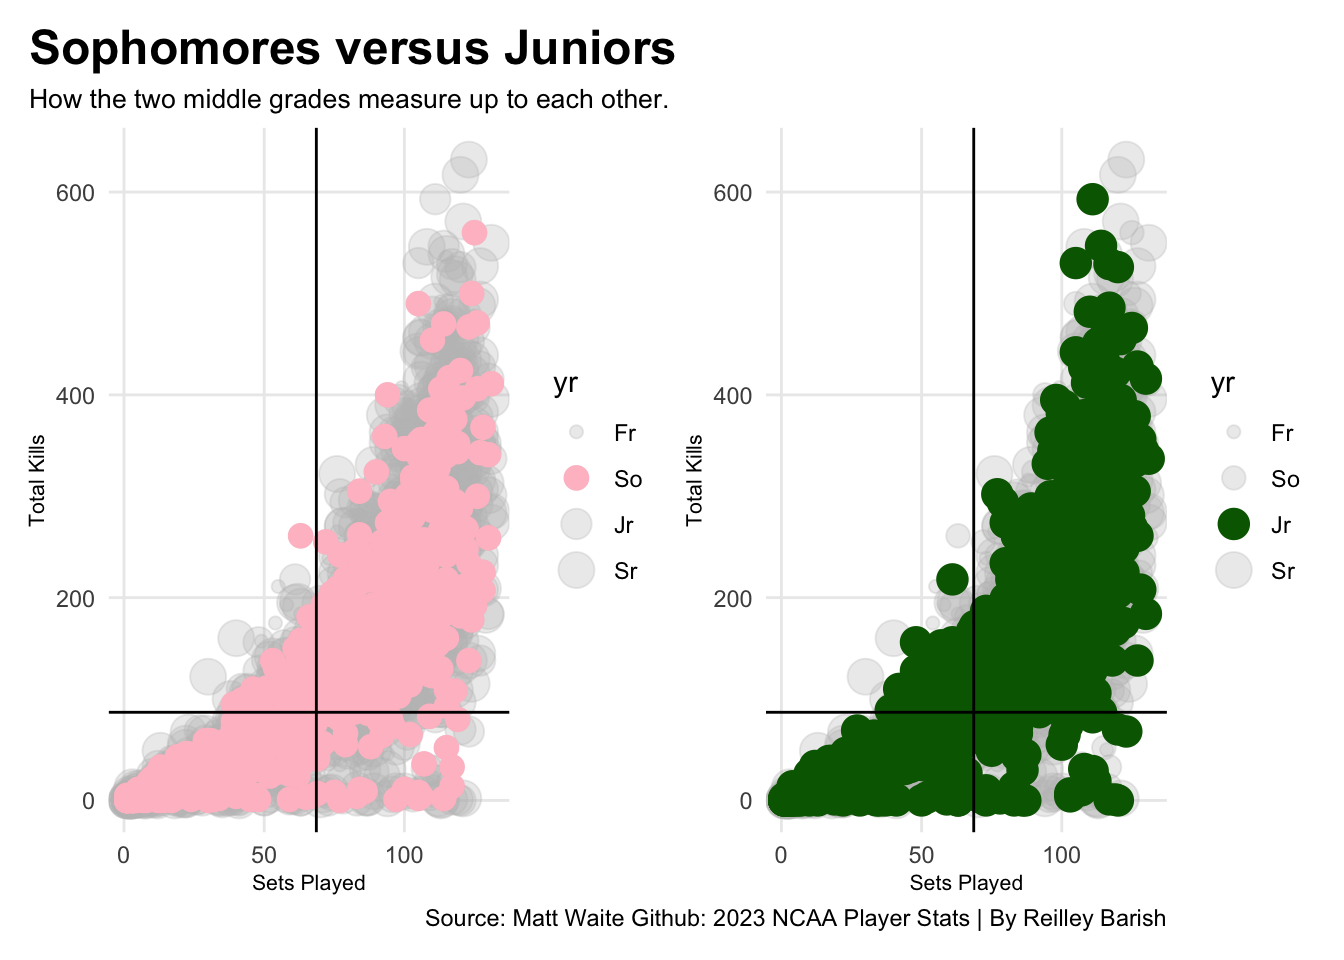
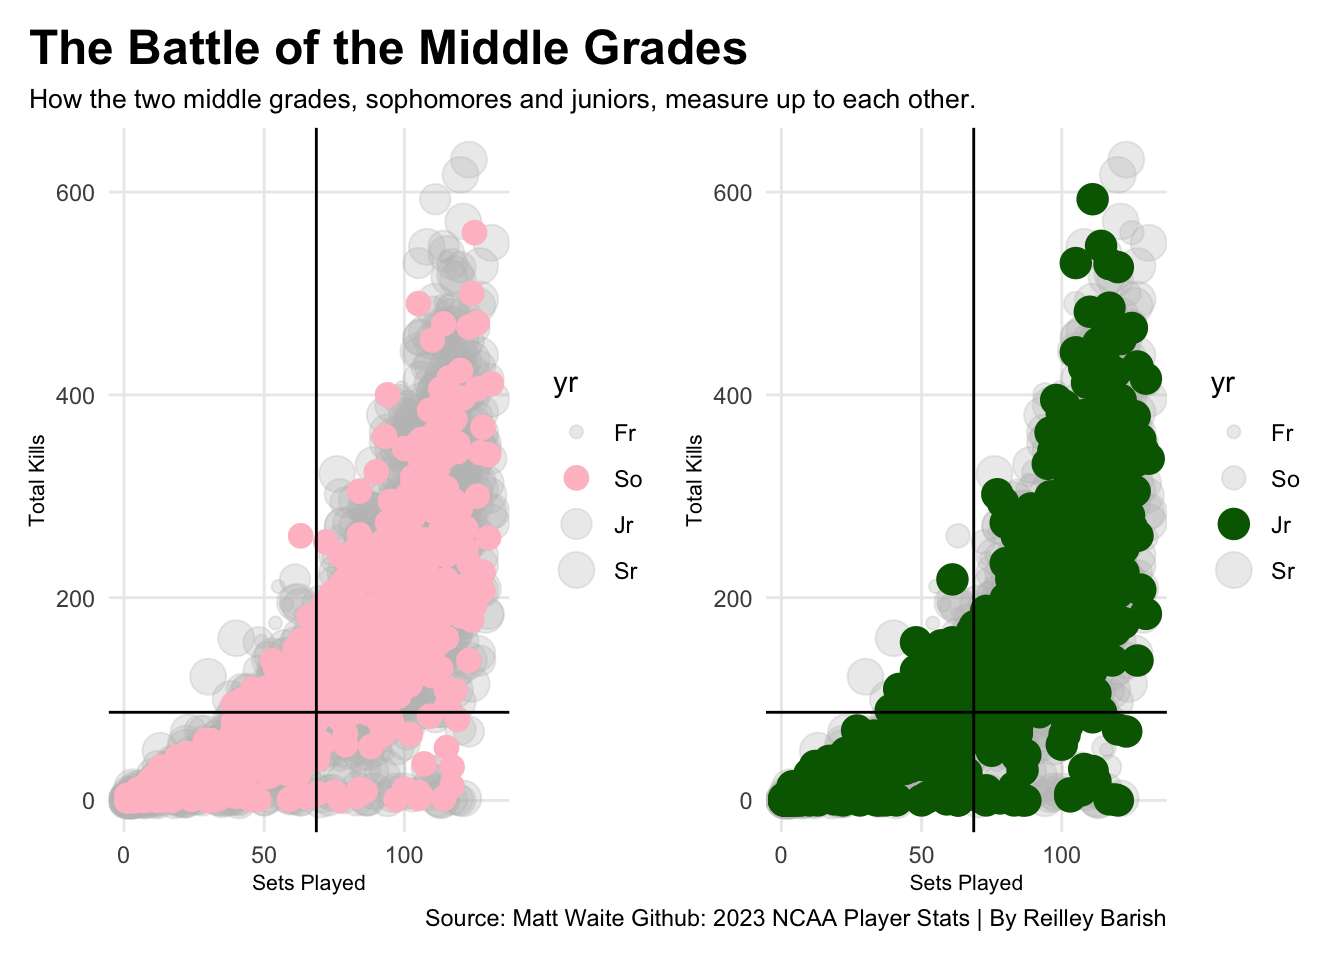
text commit 1

Changed region(s): [[0.0, 0.0312, 0.7188, 0.125]]

diff --git a/posts/volleyball-players-2023-kills/index.html b/posts/volleyball-players-2023-kills/index.html
@@ -190,6 +190,8 @@ pre > code.sourceCode > span > a:first-child::before { text-decoration: underlin
 
 
 
+<p>Incoming freshman have been getting a lot of fame and play time in NCAA volleyball recently. From Harper Murray to Olivia Babcock to Chloe Chicoine; these talented players have made a name for themselves but are they better than the seniors that have had four years to get to this level of playing? Players like Kendall Kipp, Devyn Robinson, Asjia O’Neal and Jillian Gillen. These amazing women have helped paved the way for volleyball and how to play the game at an elite level.</p>
+<p>The data is Sports Data Files of the 2023 NCAA volleyball season courtesy of Professor Matt Waite. https://mattwaite.github.io/sportsdatafiles/ncaa_womens_volleyball_playerstats_2023</p>
 <div class="cell">
 <details class="code-fold">
 <summary>Code</summary>
@@ -265,7 +267,6 @@ pre > code.sourceCode > span > a:first-child::before { text-decoration: underlin
 <span id="cb1-70"><a href="#cb1-70" aria-hidden="true" tabindex="-1"></a>sr <span class="ot">&lt;-</span> <span class="fu">c</span>(<span class="st">"Average Kills"</span><span class="ot">=</span><span class="dv">233</span>, <span class="st">"Average Attacks"</span><span class="ot">=</span><span class="dv">616</span>)</span></code><button title="Copy to Clipboard" class="code-copy-button"><i class="bi"></i></button></pre></div>
 </details>
 </div>
-<p>Our data is Sports Data Files of the 2023 NCAA volleyball season courtesy of Professor Matt Waite. https://mattwaite.github.io/sportsdatafiles/ncaa_womens_volleyball_playerstats_2023</p>
 <div class="cell">
 <details class="code-fold">
 <summary>Code</summary>
@@ -402,8 +403,8 @@ pre > code.sourceCode > span > a:first-child::before { text-decoration: underlin
 <span id="cb5-14"><a href="#cb5-14" aria-hidden="true" tabindex="-1"></a>  <span class="fu">labs</span>(</span>
 <span id="cb5-15"><a href="#cb5-15" aria-hidden="true" tabindex="-1"></a>    <span class="at">x =</span> <span class="st">"Sets Played"</span>,</span>
 <span id="cb5-16"><a href="#cb5-16" aria-hidden="true" tabindex="-1"></a>    <span class="at">y =</span> <span class="st">"Total Kills"</span>,</span>
-<span id="cb5-17"><a href="#cb5-17" aria-hidden="true" tabindex="-1"></a>    <span class="at">title =</span> <span class="st">"Sophomores versus Juniors"</span>,</span>
-<span id="cb5-18"><a href="#cb5-18" aria-hidden="true" tabindex="-1"></a>    <span class="at">subtitle =</span> <span class="st">"How the two middle grades measure up to each other."</span></span>
+<span id="cb5-17"><a href="#cb5-17" aria-hidden="true" tabindex="-1"></a>    <span class="at">title =</span> <span class="st">"The Battle of the Middle Grades"</span>,</span>
+<span id="cb5-18"><a href="#cb5-18" aria-hidden="true" tabindex="-1"></a>    <span class="at">subtitle =</span> <span class="st">"How the two middle grades, sophomores and juniors, measure up to each other."</span></span>
 <span id="cb5-19"><a href="#cb5-19" aria-hidden="true" tabindex="-1"></a>  ) <span class="sc">+</span></span>
 <span id="cb5-20"><a href="#cb5-20" aria-hidden="true" tabindex="-1"></a>  custheme</span>
 <span id="cb5-21"><a href="#cb5-21" aria-hidden="true" tabindex="-1"></a></span>

diff --git a/index.html b/index.html
@@ -205,7 +205,7 @@ window.Quarto = {
 
 <div class="quarto-listing quarto-listing-container-default" id="listing-listing">
 <div class="list quarto-listing-default">
-<div class="quarto-post image-right" data-index="0" data-categories="dm9sbGV5YmFsbCUyQ25jYWElMkNmaW5hbCUyMGZvdXI=" data-listing-date-sort="1743483600000" data-listing-file-modified-sort="1744681016326" data-listing-date-modified-sort="NaN" data-listing-reading-time-sort="7" data-listing-word-count-sort="1246">
+<div class="quarto-post image-right" data-index="0" data-categories="dm9sbGV5YmFsbCUyQ25jYWElMkNmaW5hbCUyMGZvdXI=" data-listing-date-sort="1743483600000" data-listing-file-modified-sort="1744681790456" data-listing-date-modified-sort="NaN" data-listing-reading-time-sort="7" data-listing-word-count-sort="1336">
 <div class="thumbnail">
 <p><a href="./posts/volleyball-players-2023-kills/index.html" class="no-external"></a></p><a href="./posts/volleyball-players-2023-kills/index.html" class="no-external">
 <p><img loading="lazy" src="./posts/volleyball-players-2023-kills/image.png" class="thumbnail-image"></p>
@@ -230,7 +230,7 @@ final four
 </div>
 </div>
 <div class="listing-description">
-<a href="./posts/volleyball-players-2023-kills/index.html" class="no-external">Our data is Sports Data Files of the 2023 NCAA volleyball season courtesy of Professor Matt Waite.…</a>
+<a href="./posts/volleyball-players-2023-kills/index.html" class="no-external">Incoming freshman have been getting a lot of fame and play time in NCAA volleyball recently. From Harper Murray to Olivia Babcock to Chloe Chicoine; these talented players…</a>
 </div>
 </div>
 <div class="metadata">
